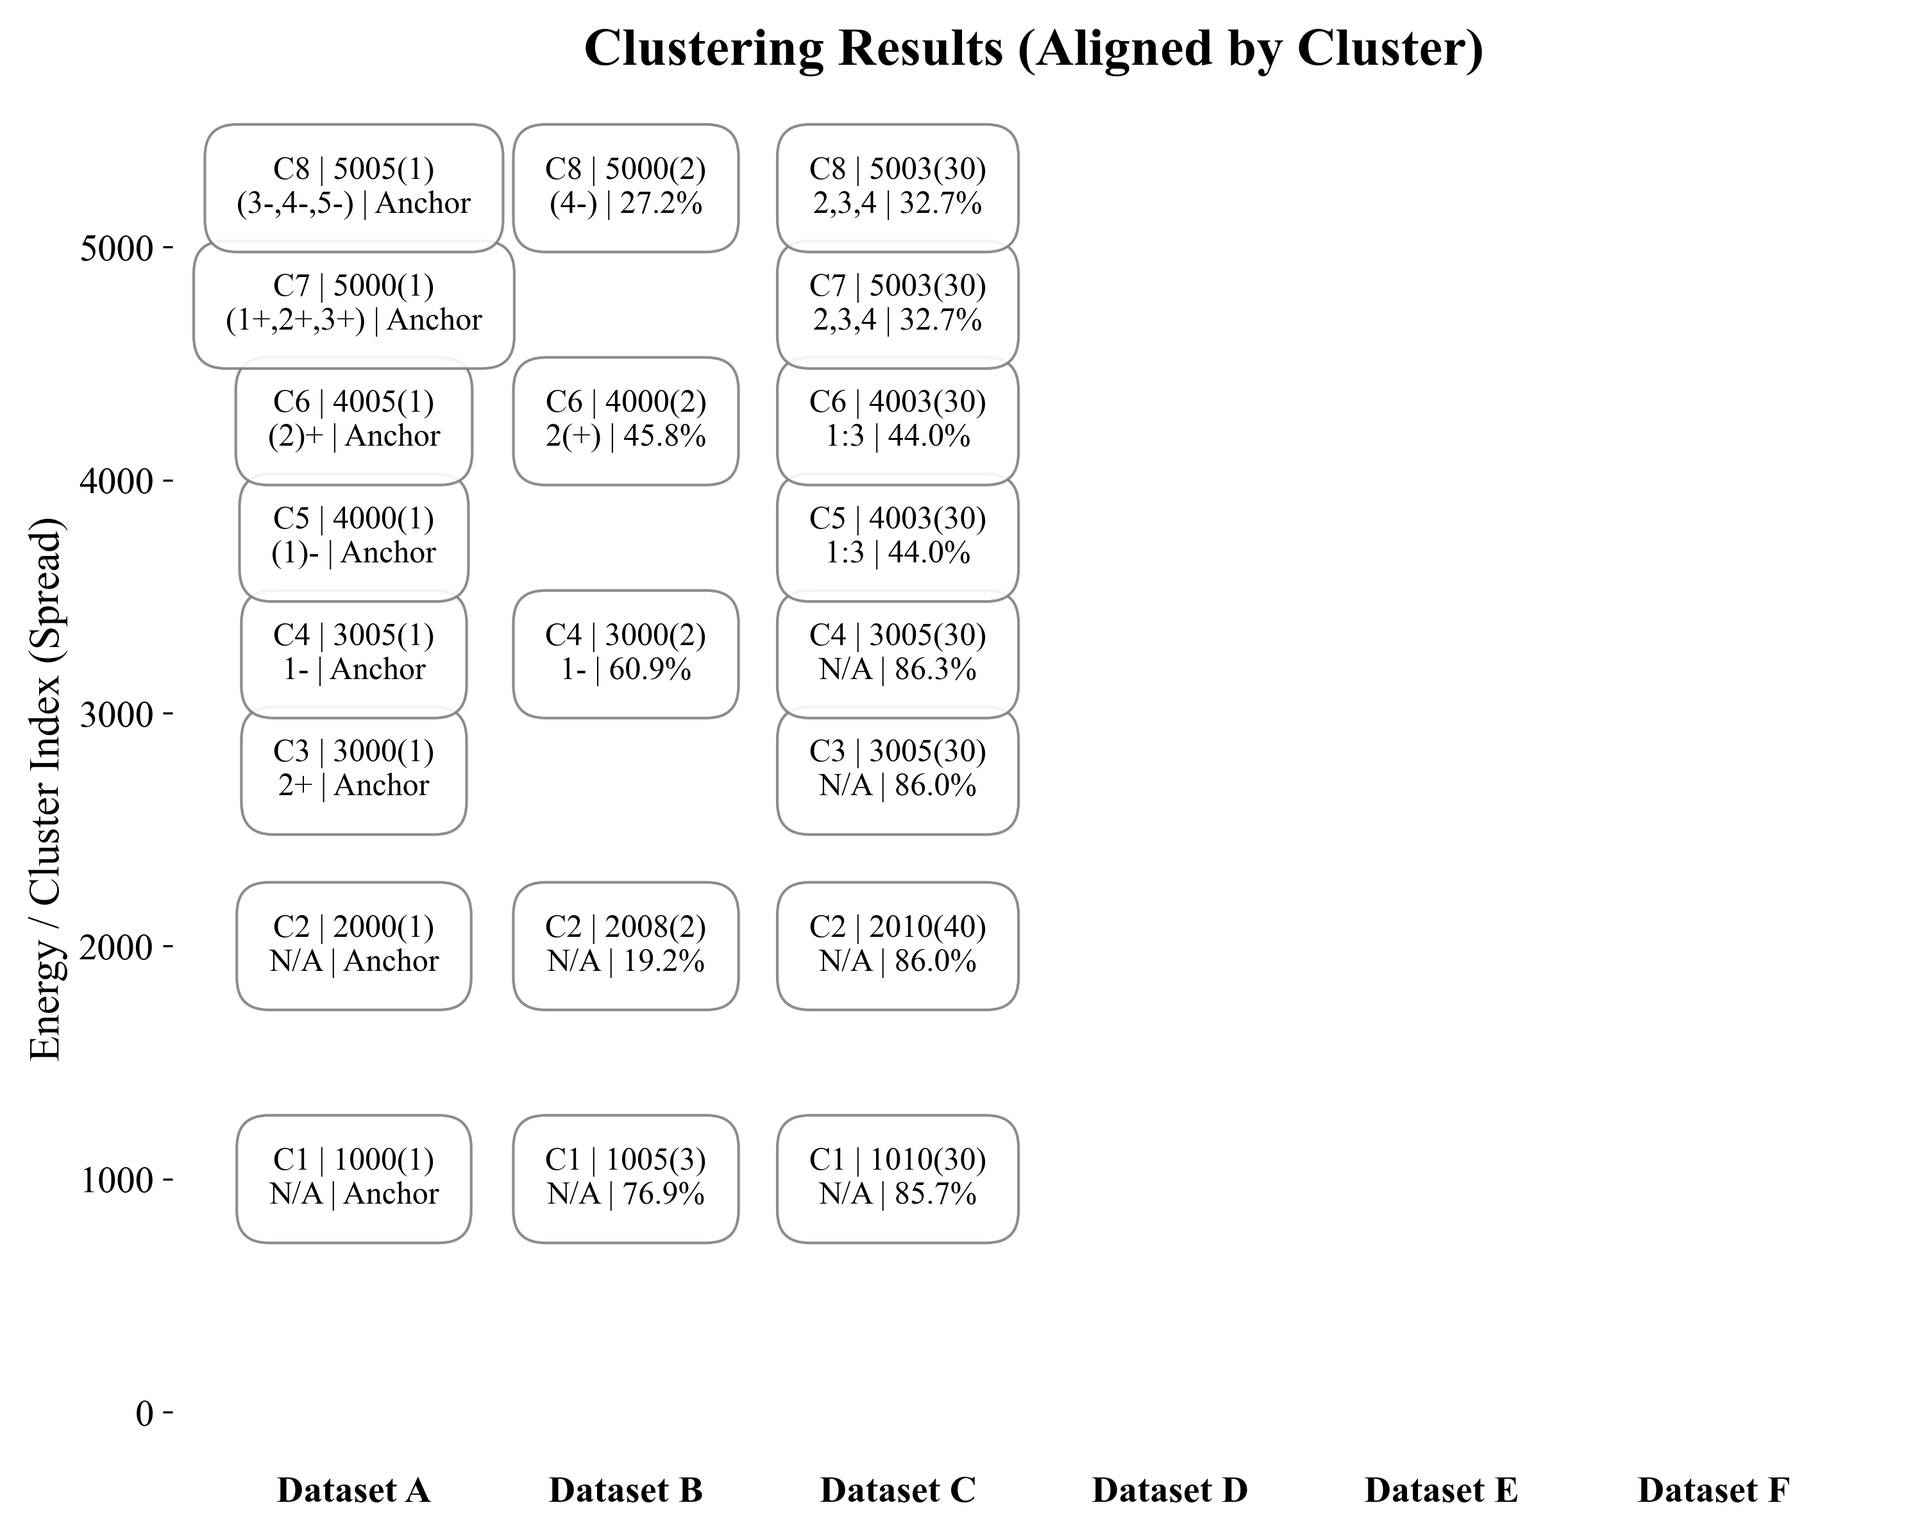
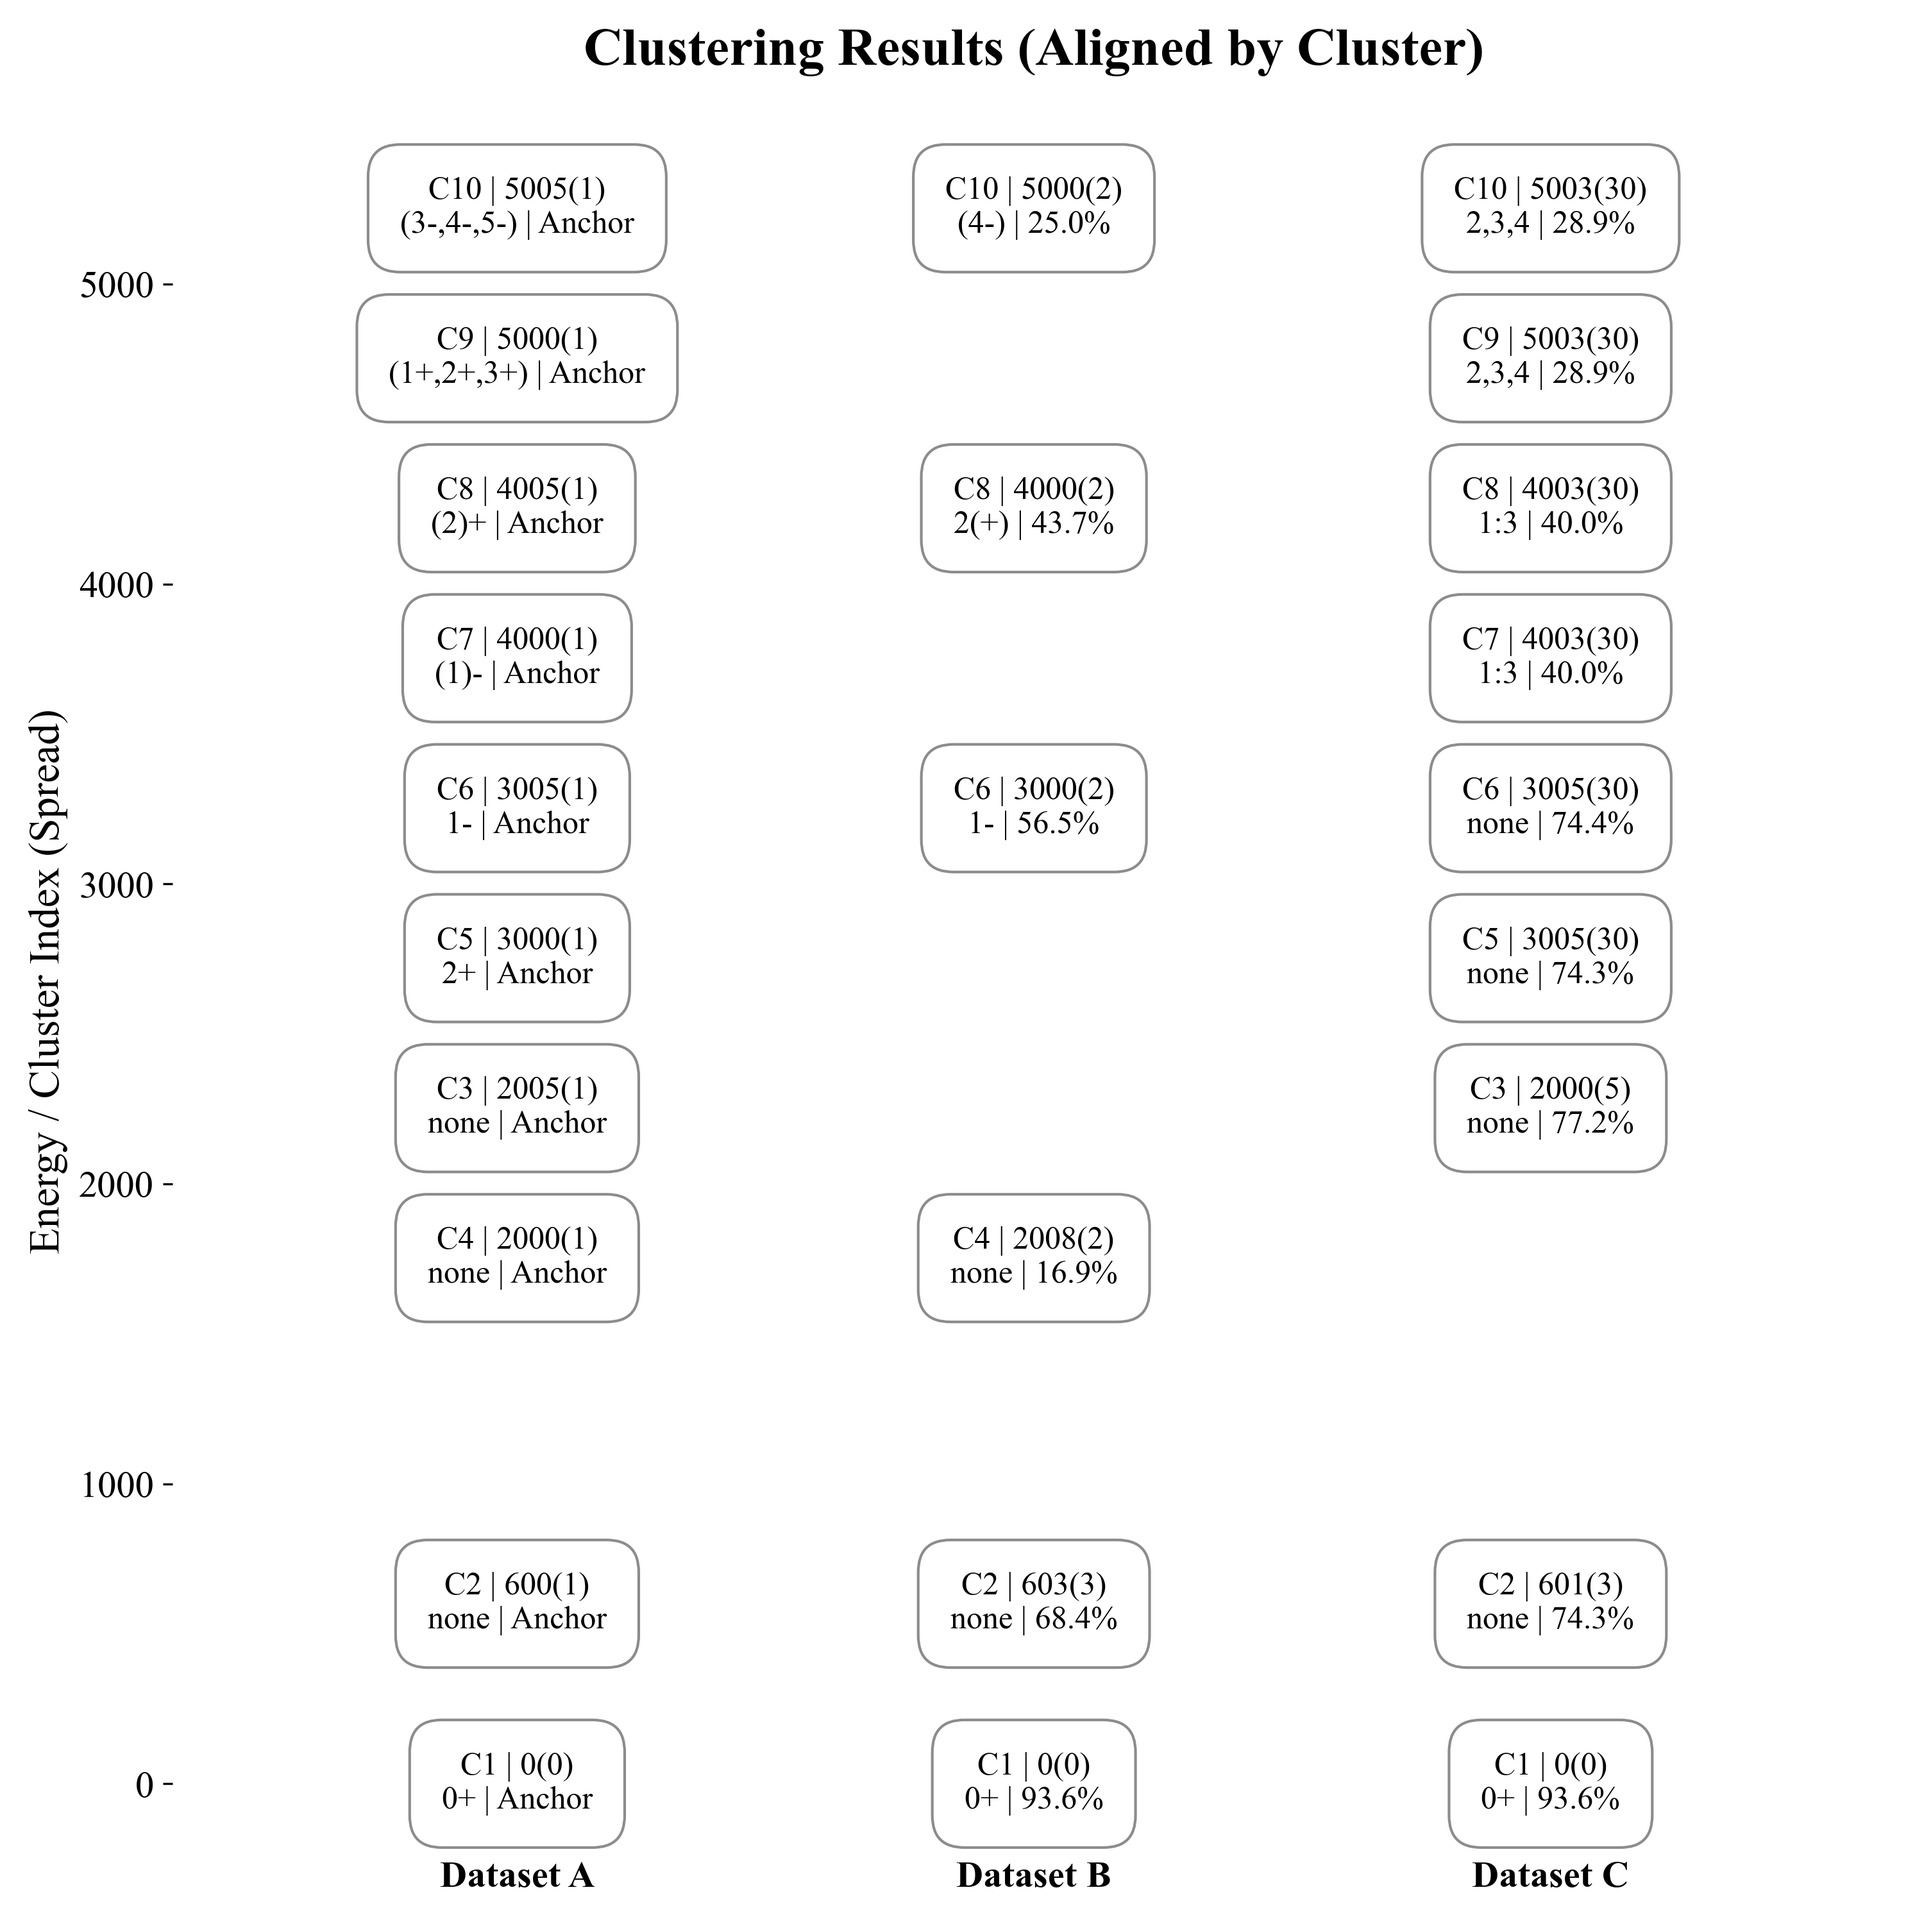
Improve axis scaling and dynamic dataset labeling
Expanded y-axis lower limit in plot_level_schemes for better visualization. Updated plot_clustering_results to dynamically extract dataset labels from cluster data instead of using hardcoded values. Updated related images to reflect these changes.

diff --git a/Combined_Visualizer.py b/Combined_Visualizer.py
@@ -272,7 +272,7 @@ def plot_level_schemes():
 
     # Styling
     axis.set_xlim(-1.5, 8.0)
-    axis.set_ylim(0, maximum_energy * 1.15)
+    axis.set_ylim(-200, maximum_energy * 1.15)
     axis.set_xticks([0, 3.0, 6.0])
     axis.set_xticklabels(['Dataset A', 'Dataset B', 'Dataset C'], 
                          fontsize=FONT_CONFIG['axis_labels'], fontweight='bold', family='Times New Roman')
@@ -379,7 +379,12 @@ def plot_clustering_results():
     # Sort clusters by anchor energy (Low Energy at Bottom)
     clusters.sort(key=lambda x: x.get('anchor_energy', 0))
     
-    datasets = ['A', 'B', 'C', 'D', 'E', 'F']
+    # Dynamically extract unique datasets from cluster members (not hardcoded)
+    unique_datasets = set()
+    for cluster in clusters:
+        for member in cluster['members']:
+            unique_datasets.add(member['dataset'])
+    datasets = sorted(list(unique_datasets))
     
     # Calculate figure size based on density (tunable multiplier)
     fig_height = max(8, len(clusters) * clustering_fig_height_multiplier)
@@ -441,7 +446,8 @@ def plot_clustering_results():
     
     # X-Axis Labels
     axis.set_xticks([index * clustering_x_spacing for index in range(len(datasets))])
-    axis.set_xticklabels(['Dataset A', 'Dataset B', 'Dataset C', 'Dataset D', 'Dataset E', 'Dataset F'], 
+    dataset_labels = [f'Dataset {ds}' for ds in datasets]
+    axis.set_xticklabels(dataset_labels, 
                          fontsize=FONT_CONFIG['cluster_axis_labels'], fontweight='bold', family='Times New Roman')
     
     # Y-Axis Label
